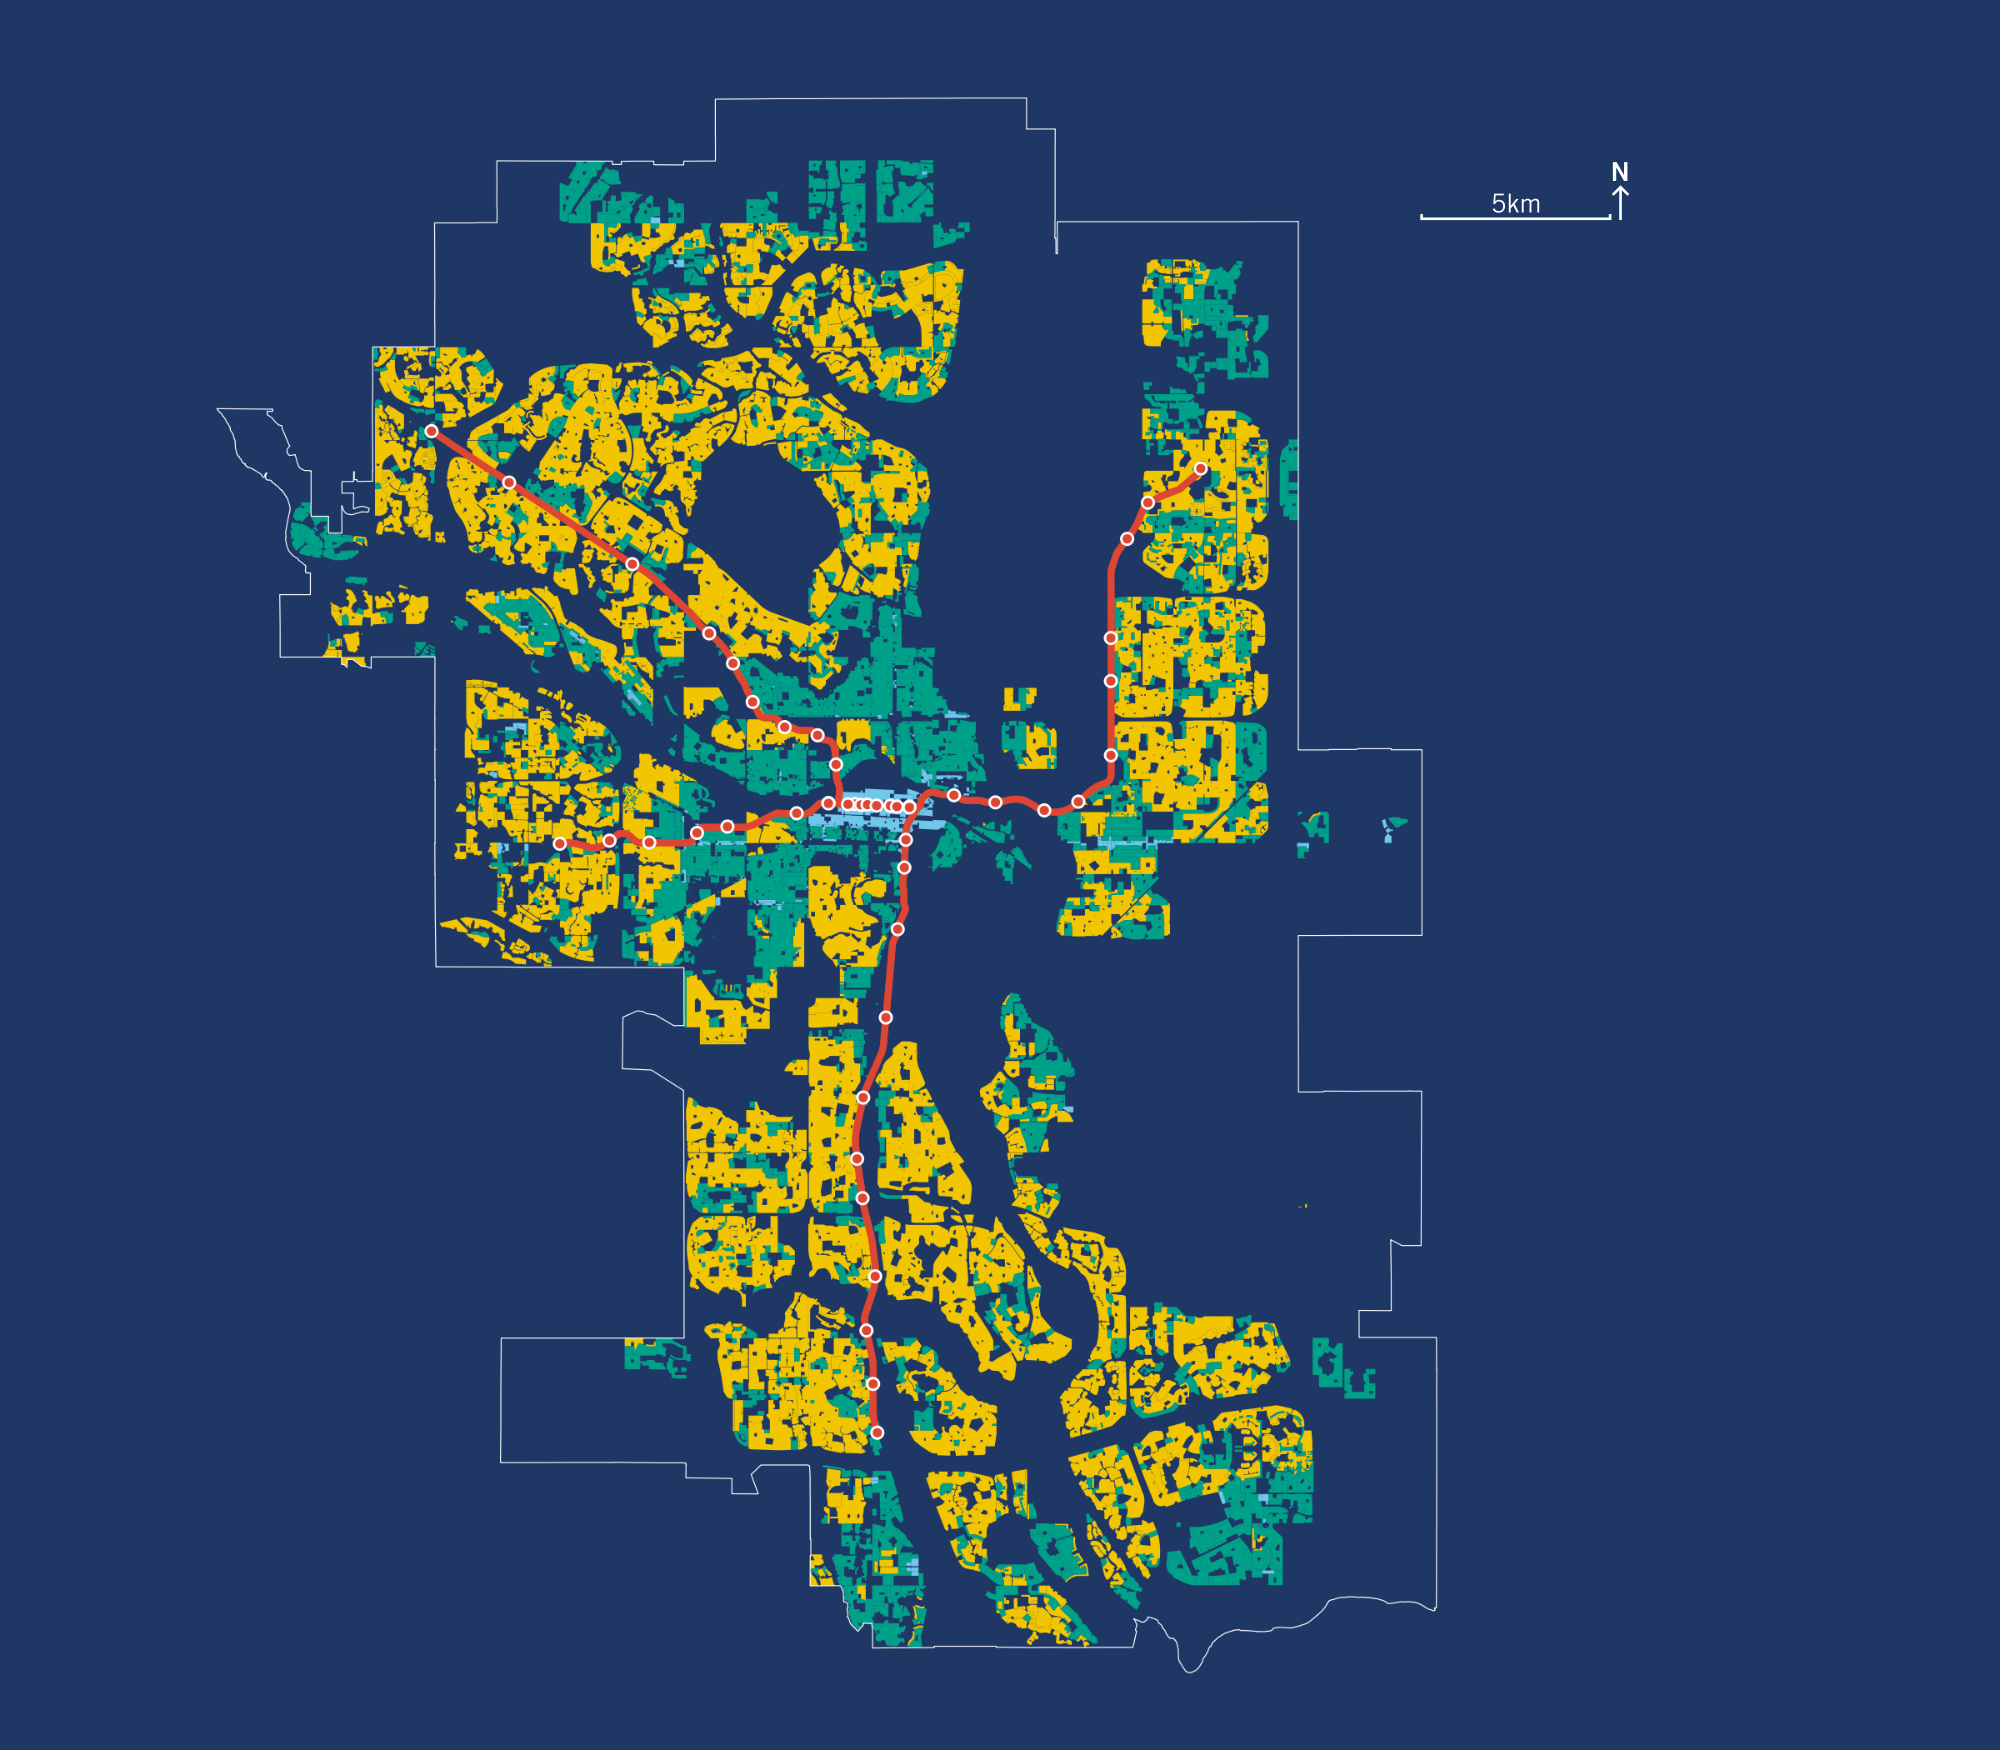
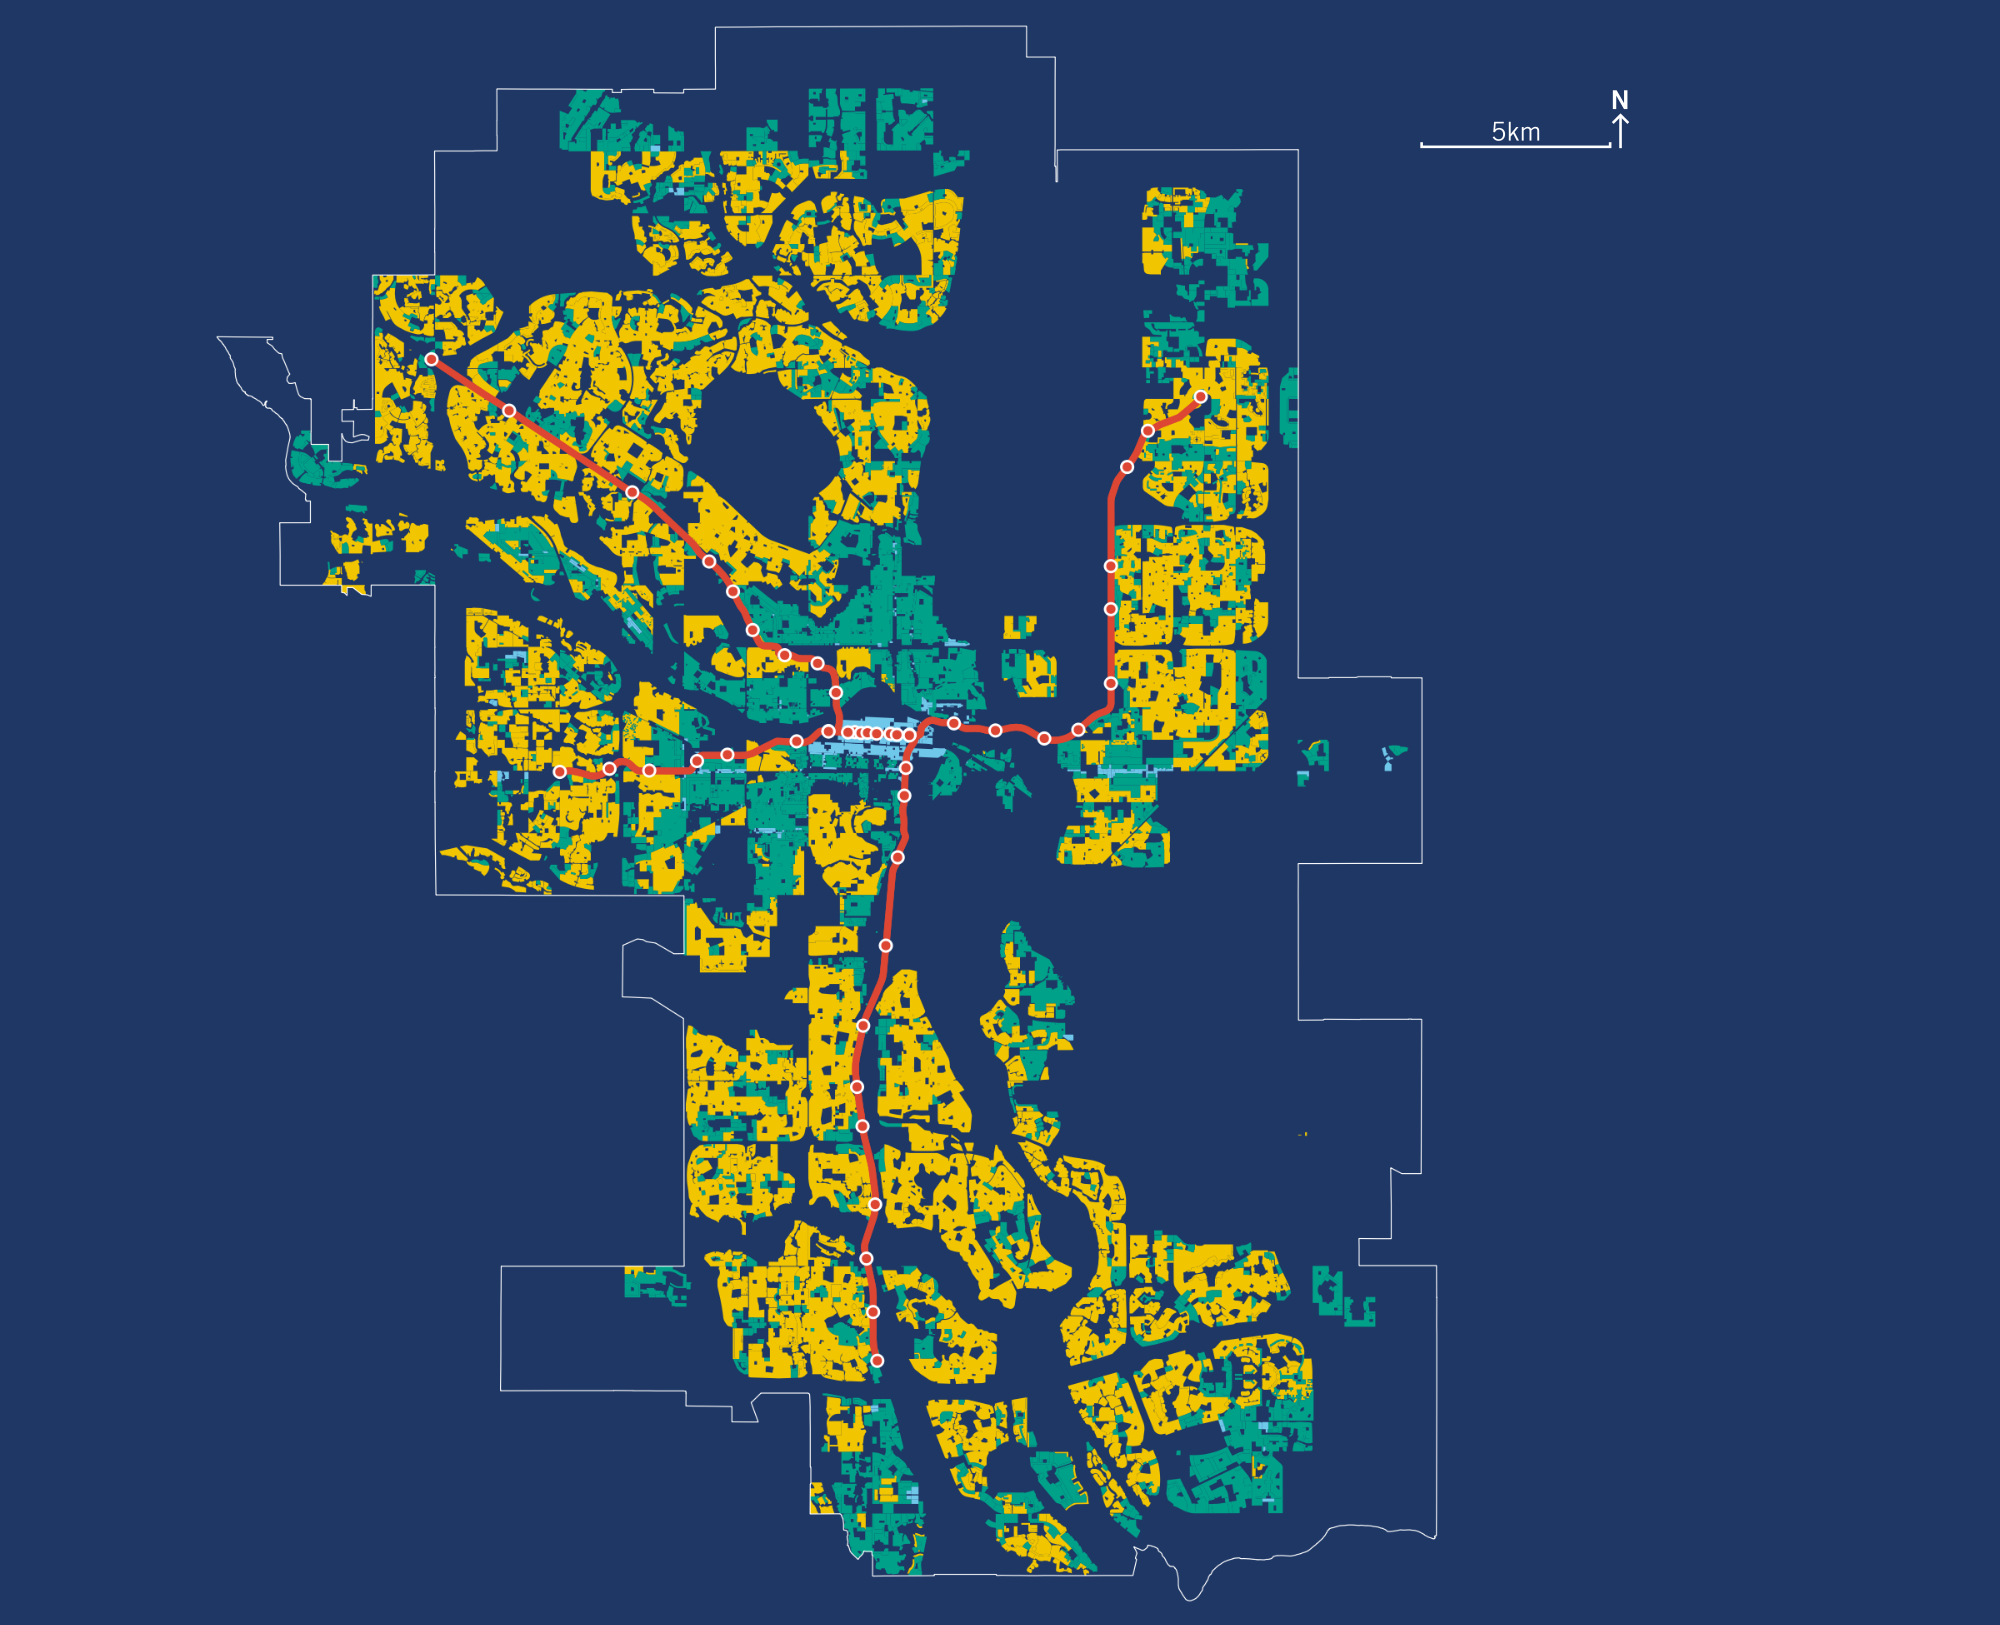
legend bar, calgary maps, delete old legend

Changed region(s): [[0.124, 0.0308, 0.713, 0.9846], [0.744, 0.0615, 0.775, 0.1231], [0.806, 0.0923, 0.837, 0.1231]]

diff --git a/src/lib/LegendBar.svelte b/src/lib/LegendBar.svelte
@@ -4,34 +4,60 @@
 
 	const cities = {
 		"calgary": {
-			"SD": 0.623,
-			"OR": 0.363,
-			"MU": 0.014
+			"SD": 62.3,
+			"OR": 36.3,
+			"MU": 1.4
+		},
+		"toronto": {
+			"SD": 54.3,
+			"OR": 39.9,
+			"MU": 5.8
 		}
 	}
 
-	const margin = { top: 15, bottom: 25, left: 80, right: 20 };
+	const margin = { top: 1, bottom: 1, left: 1, right: 1 };
 	let divWidth;
-	const height = 150;
+	const height = 90;
 
 	const innerHeight = height - margin.top - margin.bottom;
 	$: innerWidth = divWidth - margin.left - margin.right;
 
 	$: boxes = [
-		[0, cities[city]["SD"] * divWidth], 
-		[cities[city]["SD"] * divWidth, (cities[city]["SD"] + cities[city]["OR"]) * divWidth],
-		[(cities[city]["SD"] + cities[city]["OR"]) * divWidth, divWidth]
+		[0, cities[city]["SD"] / 100 * innerWidth], 
+		[cities[city]["SD"] / 100 * innerWidth, cities[city]["OR"] / 100 * innerWidth],
+		[(cities[city]["SD"] / 100 + cities[city]["OR"] / 100) * innerWidth, cities[city]["MU"] / 100	 * innerWidth]
 	]
 
-	$: console.log(boxes)
+	$: label_pts = boxes.map(b =>
+		Math.min(b[0], divWidth - 34)
+	)
+
+	function toPercent(x) {
+		return(parseFloat(x).toFixed(1)+"%")
+	}
 
 </script>
 
-
-
 <div id="container" class="svg-container" bind:offsetWidth={divWidth}>
 	<svg width={divWidth} {height} class="svg-content">
+		<g transform={`translate(${margin.left},${margin.top})`}>
+			<text x={label_pts[0]} y="15" fill="white">{toPercent(cities[city]["SD"])}</text>
+			<text x={label_pts[1]} y="15" fill="white">{toPercent(cities[city]["OR"])}</text>
+			<text x={label_pts[2]} y="15" fill="white">{toPercent(cities[city]["MU"])}</text>
 
+			<text x={boxes[0][0]} y="60" fill="white">Single Detached Only</text>
+			<text x={boxes[1][0]} y="60" fill="white">Other Residential</text>
+			<text x={divWidth - 1} y="80" text-anchor="end" fill="white">Mixed Use</text>
+
+			<line x1={divWidth - 5} y1="45" x2={divWidth - 5} y2="65" style="stroke:white;stroke-width:2" />
+
+			<rect x={boxes[0][0]} y="20" width={boxes[0][1]} height="20"
+			style="fill:#F1C500;stroke:white;stroke-width:1;" />
+			<rect x={boxes[1][0]} y="20" width={boxes[1][1]} height="20"
+			style="fill:#00A189;stroke:white;stroke-width:1;" />
+			<rect x={boxes[2][0]} y="20" width={boxes[2][1]} height="20"
+			style="fill:#6FC7EA;stroke:white;stroke-width:1;" />
+		</g>
 	</svg>
 </div>
 
@@ -41,7 +67,6 @@
 	#container {
 			padding-left: 0px;
 			max-width: 600px;
-			background-color: white;
 		}
 
 </style>

diff --git a/src/App.svelte b/src/App.svelte
@@ -4,7 +4,6 @@
 	import CalgaryPrint from './assets/calgary-print.png'
 	import TorontoWeb from './assets/toronto-web.png'
 	import TorontoPrint from './assets/toronto-print.png'
-	import TorontoLegend from './assets/toronto-legend.svg'
 	import LegendBar from './lib/LegendBar.svelte'
 </script>
 
@@ -15,7 +14,8 @@
 	<div class="title">
 		<h1><span id="yellow">The Yellowbelt</span></h1>
 		<h2>Mapping exclusionary residential zoning in four Canadian cities</h2>
-		<p><br><a href="jamaps.github.io">Jeff Allen</a> | July 2022</p>
+		<p>-</p>
+		<p><a href="https://jamaps.github.io">Jeff Allen</a> | July 2022</p>
 	</div>
 
 	<div class="text">
@@ -38,11 +38,7 @@
 
 	<div class="text">
 		<h2>TORONTO</h2>
-	</div>
-
-	<div class="legend">
-		<object type="image/svg+xml" data={TorontoLegend}>
-		</object>
+		<LegendBar city="toronto"/>
 	</div>
 
 	<div class="map">
@@ -118,7 +114,7 @@
 
 	.map {
 		text-align: center;
-
+		padding-bottom: 45px;
 		position: relative;
 	}
 
